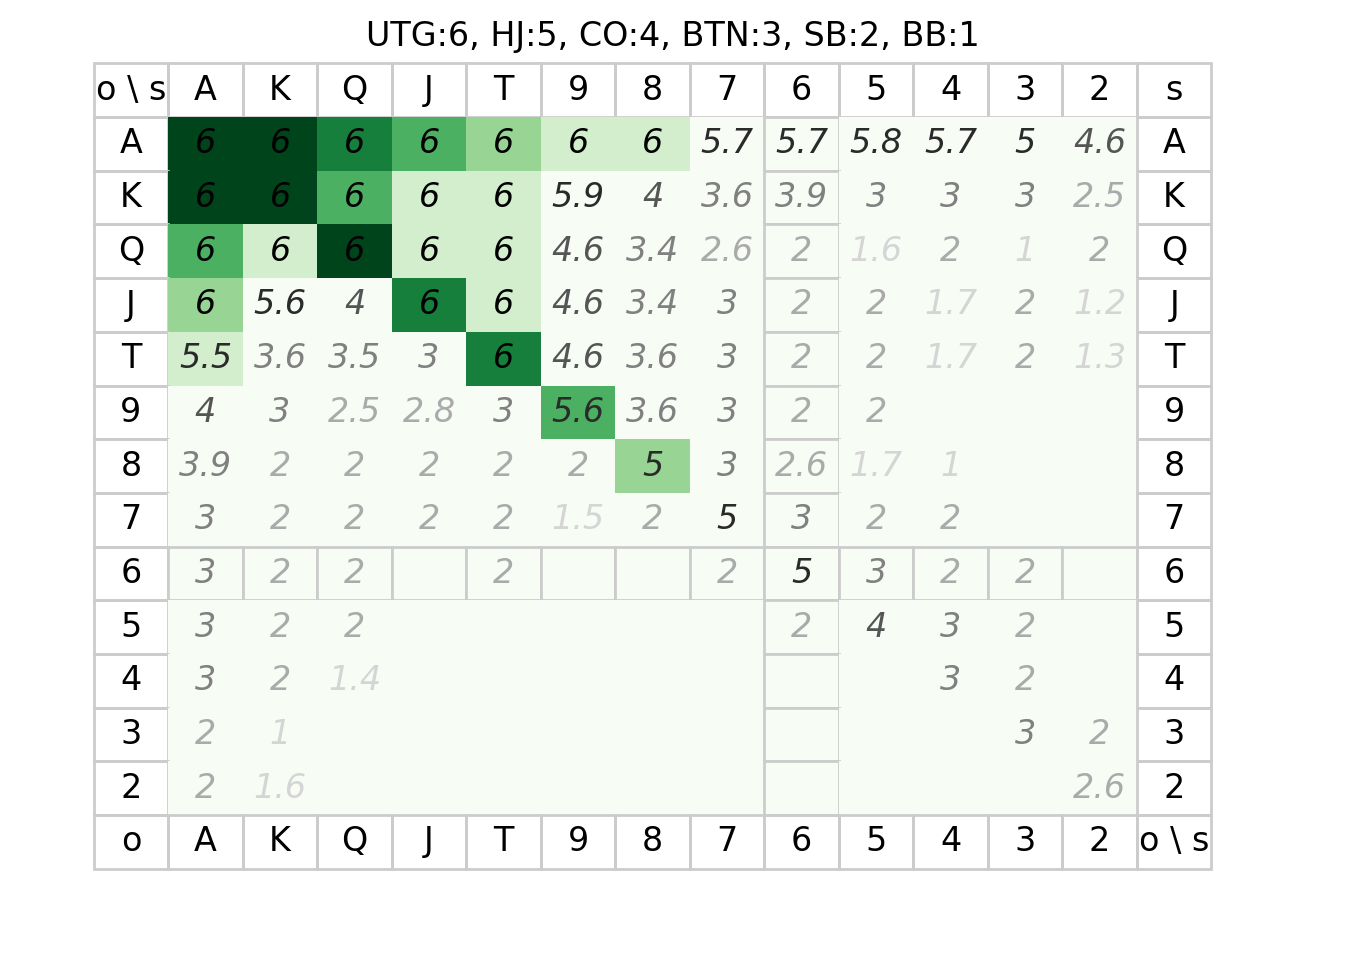
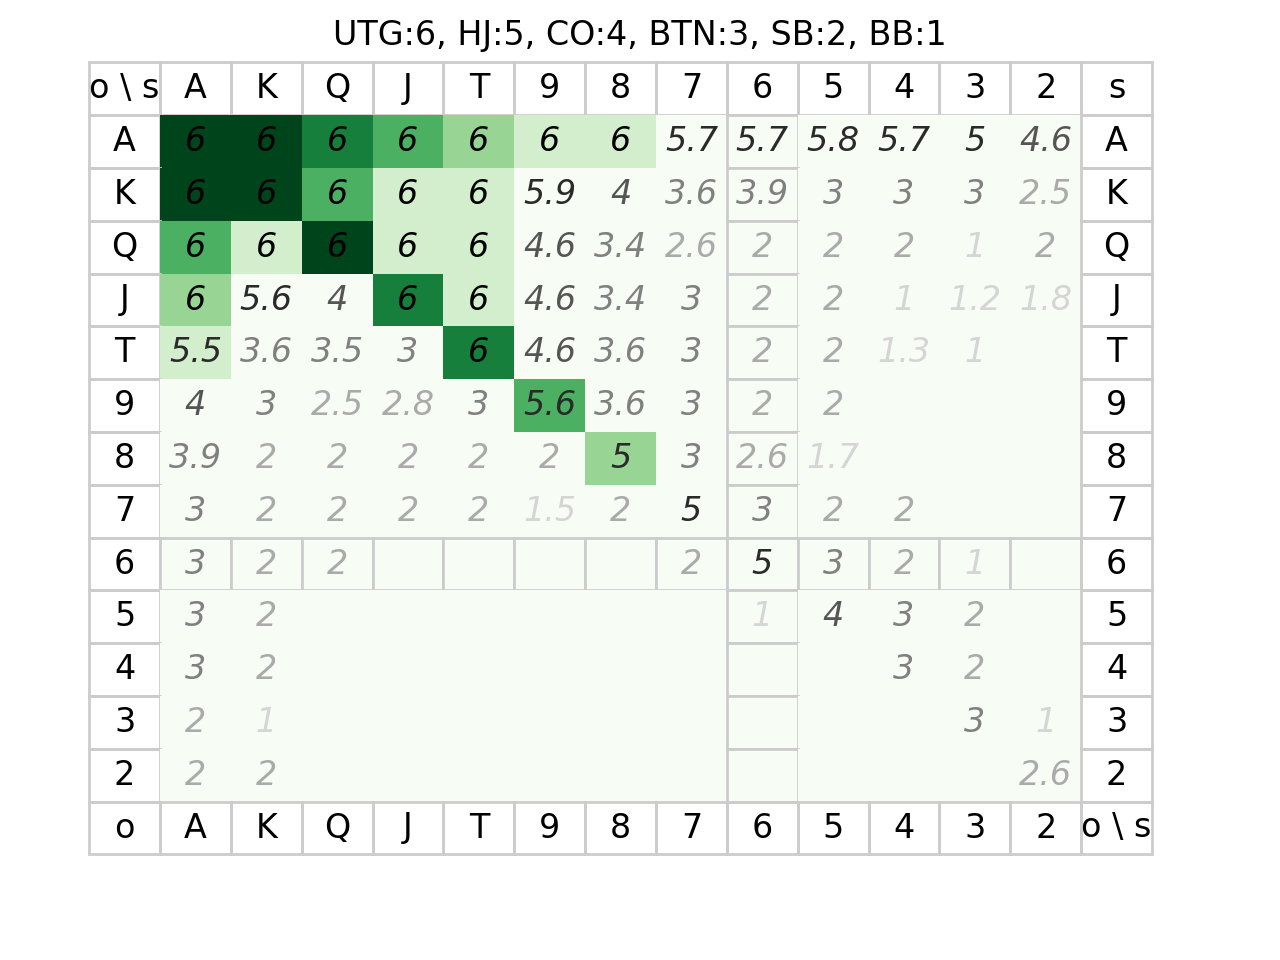
update

diff --git a/poker.py b/poker.py
@@ -63,32 +63,32 @@ card_data = {
     "K8s": [4], "K7s": [3.6], "K6s": [3.9], "K5s": [3],
     "K4s": [3], "K3s": [3], "K2s": [2.5],
     "QJs": [6, 3], "QTs": [6, 3], "Q9s": [4.6], "Q8s": [3.4],
-    "Q7s": [2.6], "Q6s": [2], "Q5s": [1.6], "Q4s": [2],
+    "Q7s": [2.6], "Q6s": [2], "Q5s": [2], "Q4s": [2],
     "Q3s": [1], "Q2s": [2],
     "JTs": [6, 3], "J9s": [4.6], "J8s": [3.4], "J7s": [3],
-    "J6s": [2], "J5s": [2], "J4s": [1.7], "J3s": [2],
-    "J2s": [1.2],
+    "J6s": [2], "J5s": [2], "J4s": [1], "J3s": [1.2],
+    "J2s": [1.8],
     "T9s": [4.6], "T8s": [3.6], "T7s": [3], "T6s": [2],
-    "T5s": [2], "T4s": [1.7], "T3s": [2], "T2s": [1.3],
+    "T5s": [2], "T4s": [1.3], "T3s": [1],
     "98s": [3.6], "97s": [3], "96s": [2], "95s": [2],
-    "87s": [3], "86s": [2.6], "85s": [1.7], "84s": [1],
+    "87s": [3], "86s": [2.6], "85s": [1.7],
     "76s": [3], "75s": [2], "74s": [2],
-    "65s": [3], "64s": [2], "63s": [2],
+    "65s": [3], "64s": [2], "63s": [1],
     "54s": [3], "53s": [2],
-    "43s": [2], "32s": [2],
+    "43s": [2], "32s": [1],
     # raise or fold: BB[0-1], SB[1-2], BTN[2-3], CO[3-4], HJ[4-5], UTG[5-6]
     "AKo": [6, 7], "AQo": [6, 5], "AJo": [6, 4], "ATo": [5.5, 3],
     "A9o": [4], "A8o": [3.9], "A7o": [3], "A6o": [3],
     "A5o": [3], "A4o": [3], "A3o": [2], "A2o": [2],
     "KQo": [6, 3], "KJo": [5.6], "KTo": [3.6], "K9o": [3],
     "K8o": [2], "K7o": [2], "K6o": [2], "K5o": [2],
-    "K4o": [2], "K3o": [1], "K2o": [1.6],
+    "K4o": [2], "K3o": [1], "K2o": [2],
     "QJo": [4], "QTo": [3.5], "Q9o": [2.5], "Q8o": [2],
-    "Q7o": [2], "Q6o": [2], "Q5o": [2], "Q4o": [1.4],
+    "Q7o": [2], "Q6o": [2],
     "JTo": [3], "J9o": [2.8], "J8o": [2], "J7o": [2],
-    "T9o": [3], "T8o": [2], "T7o": [2], "T6o": [2],
+    "T9o": [3], "T8o": [2], "T7o": [2],
     "98o": [2], "97o": [1.5],
-    "87o": [2], "76o": [2], "65o": [2],
+    "87o": [2], "76o": [2], "65o": [1],
 }
 
 
